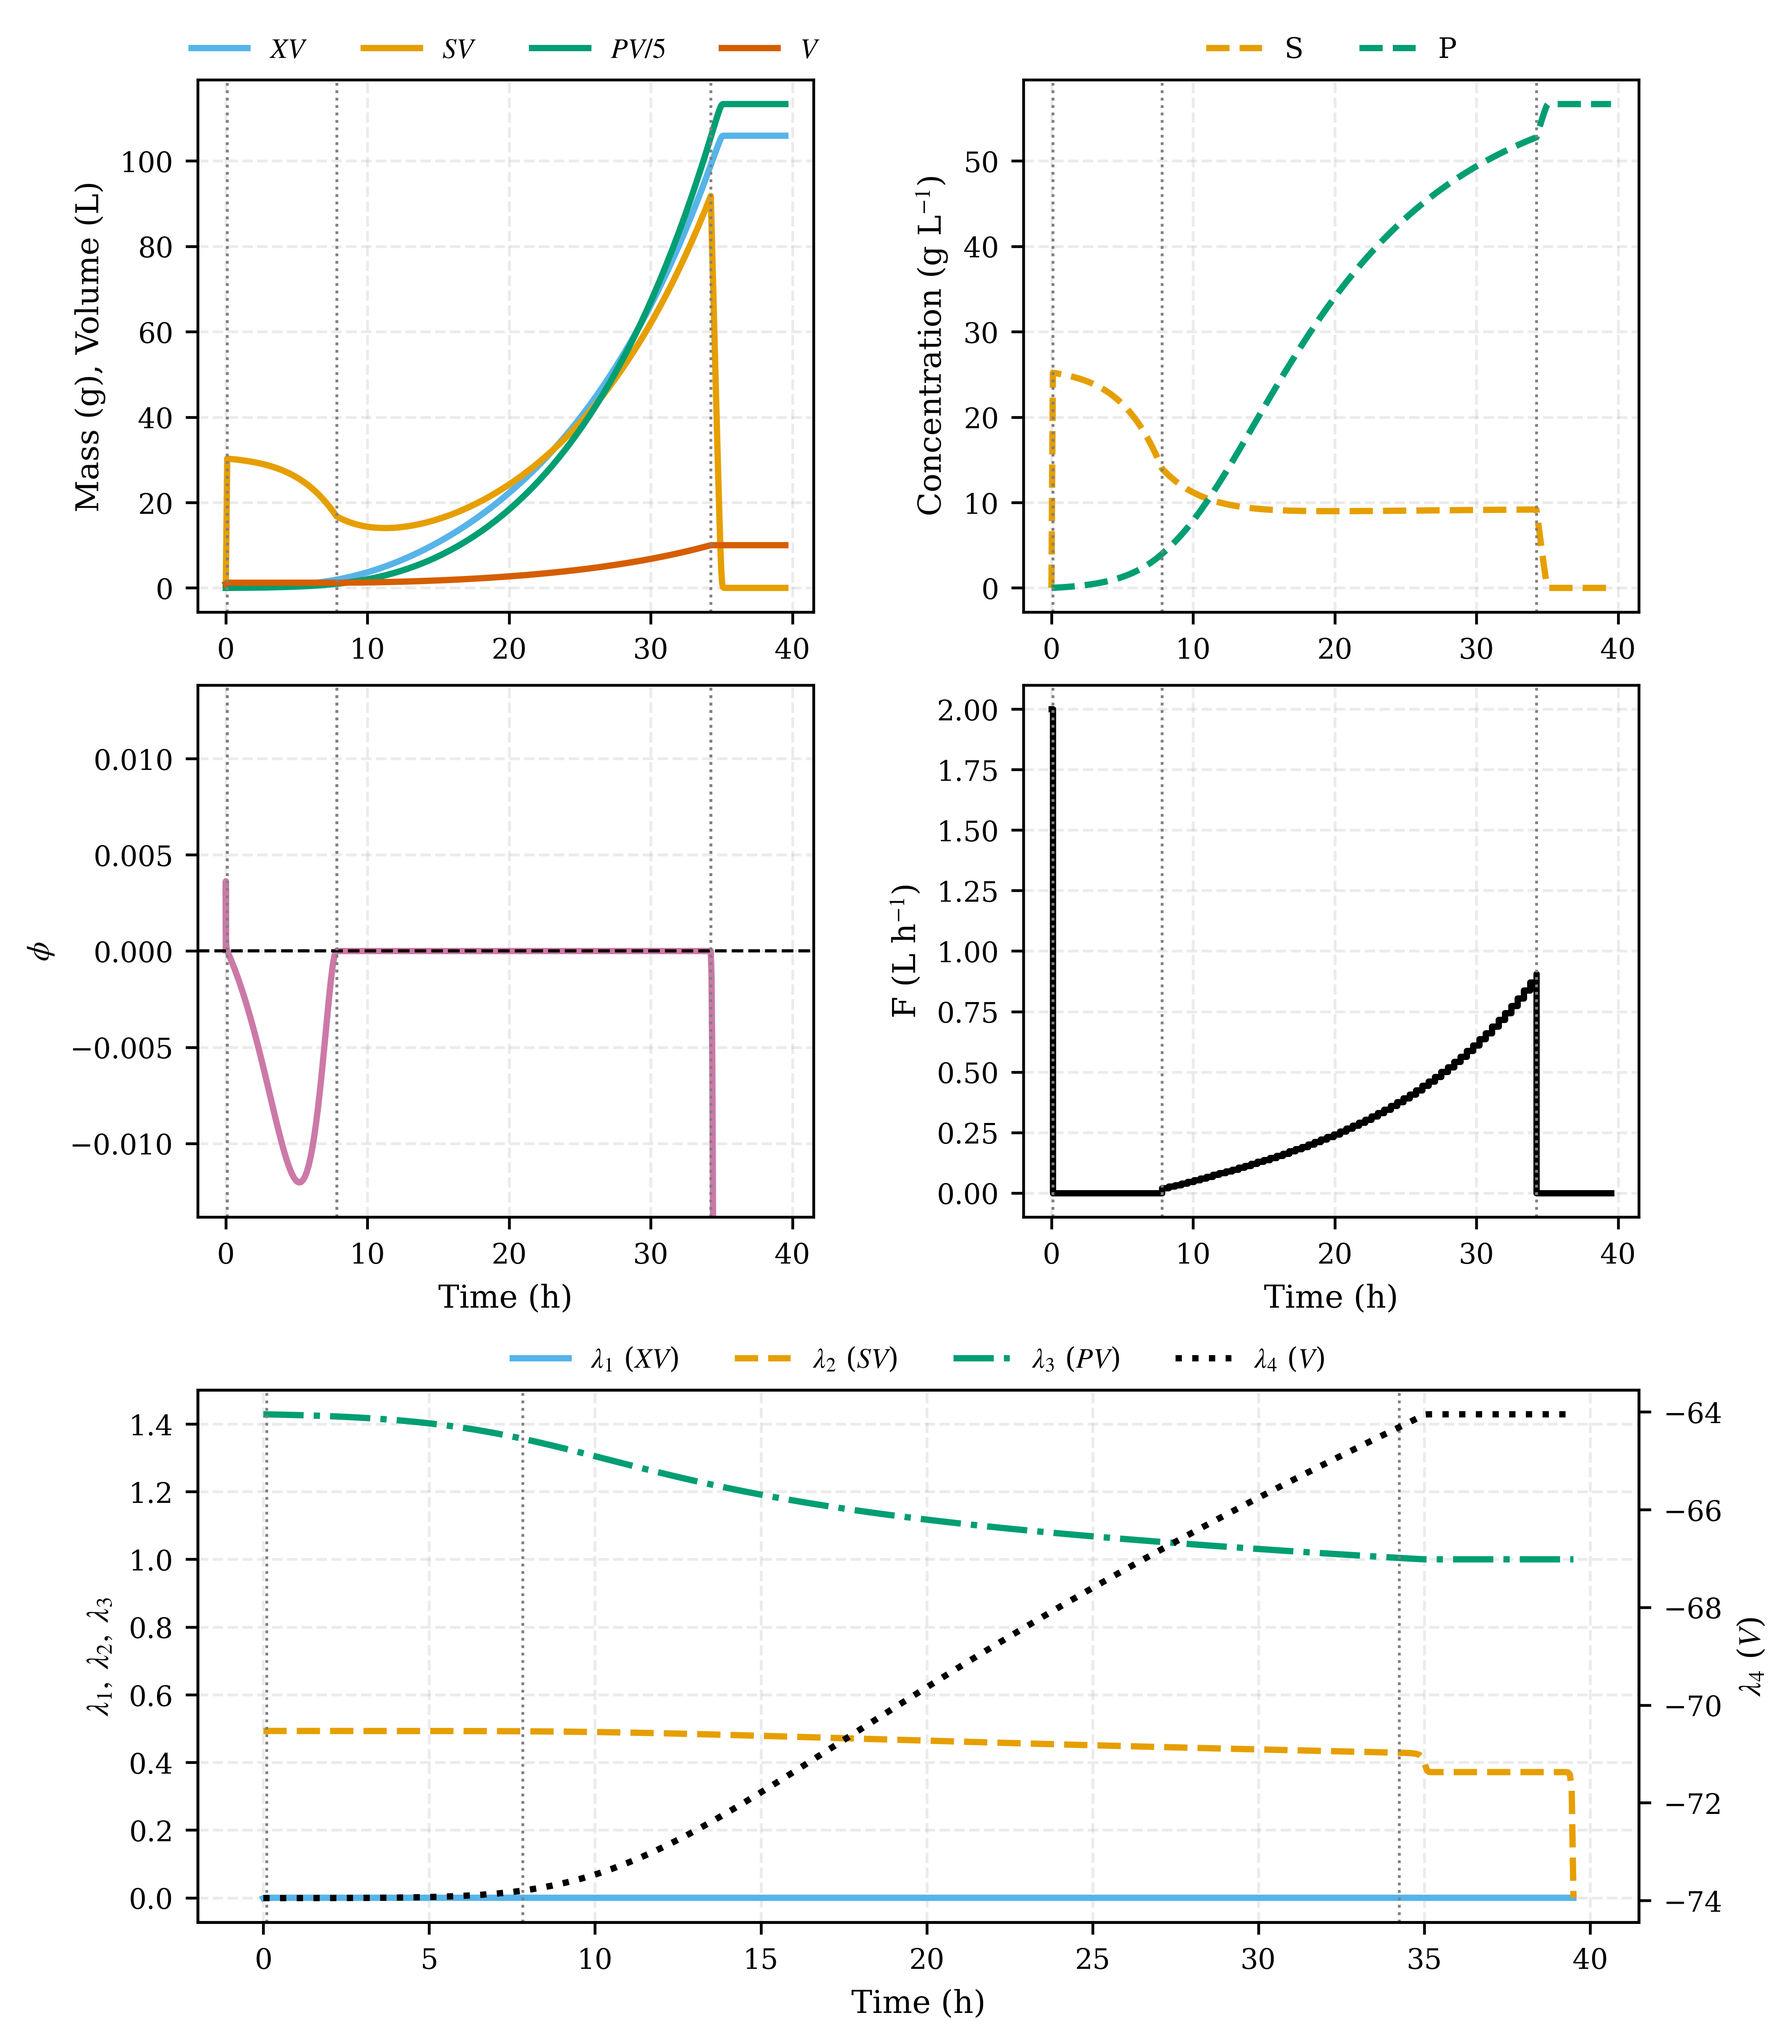
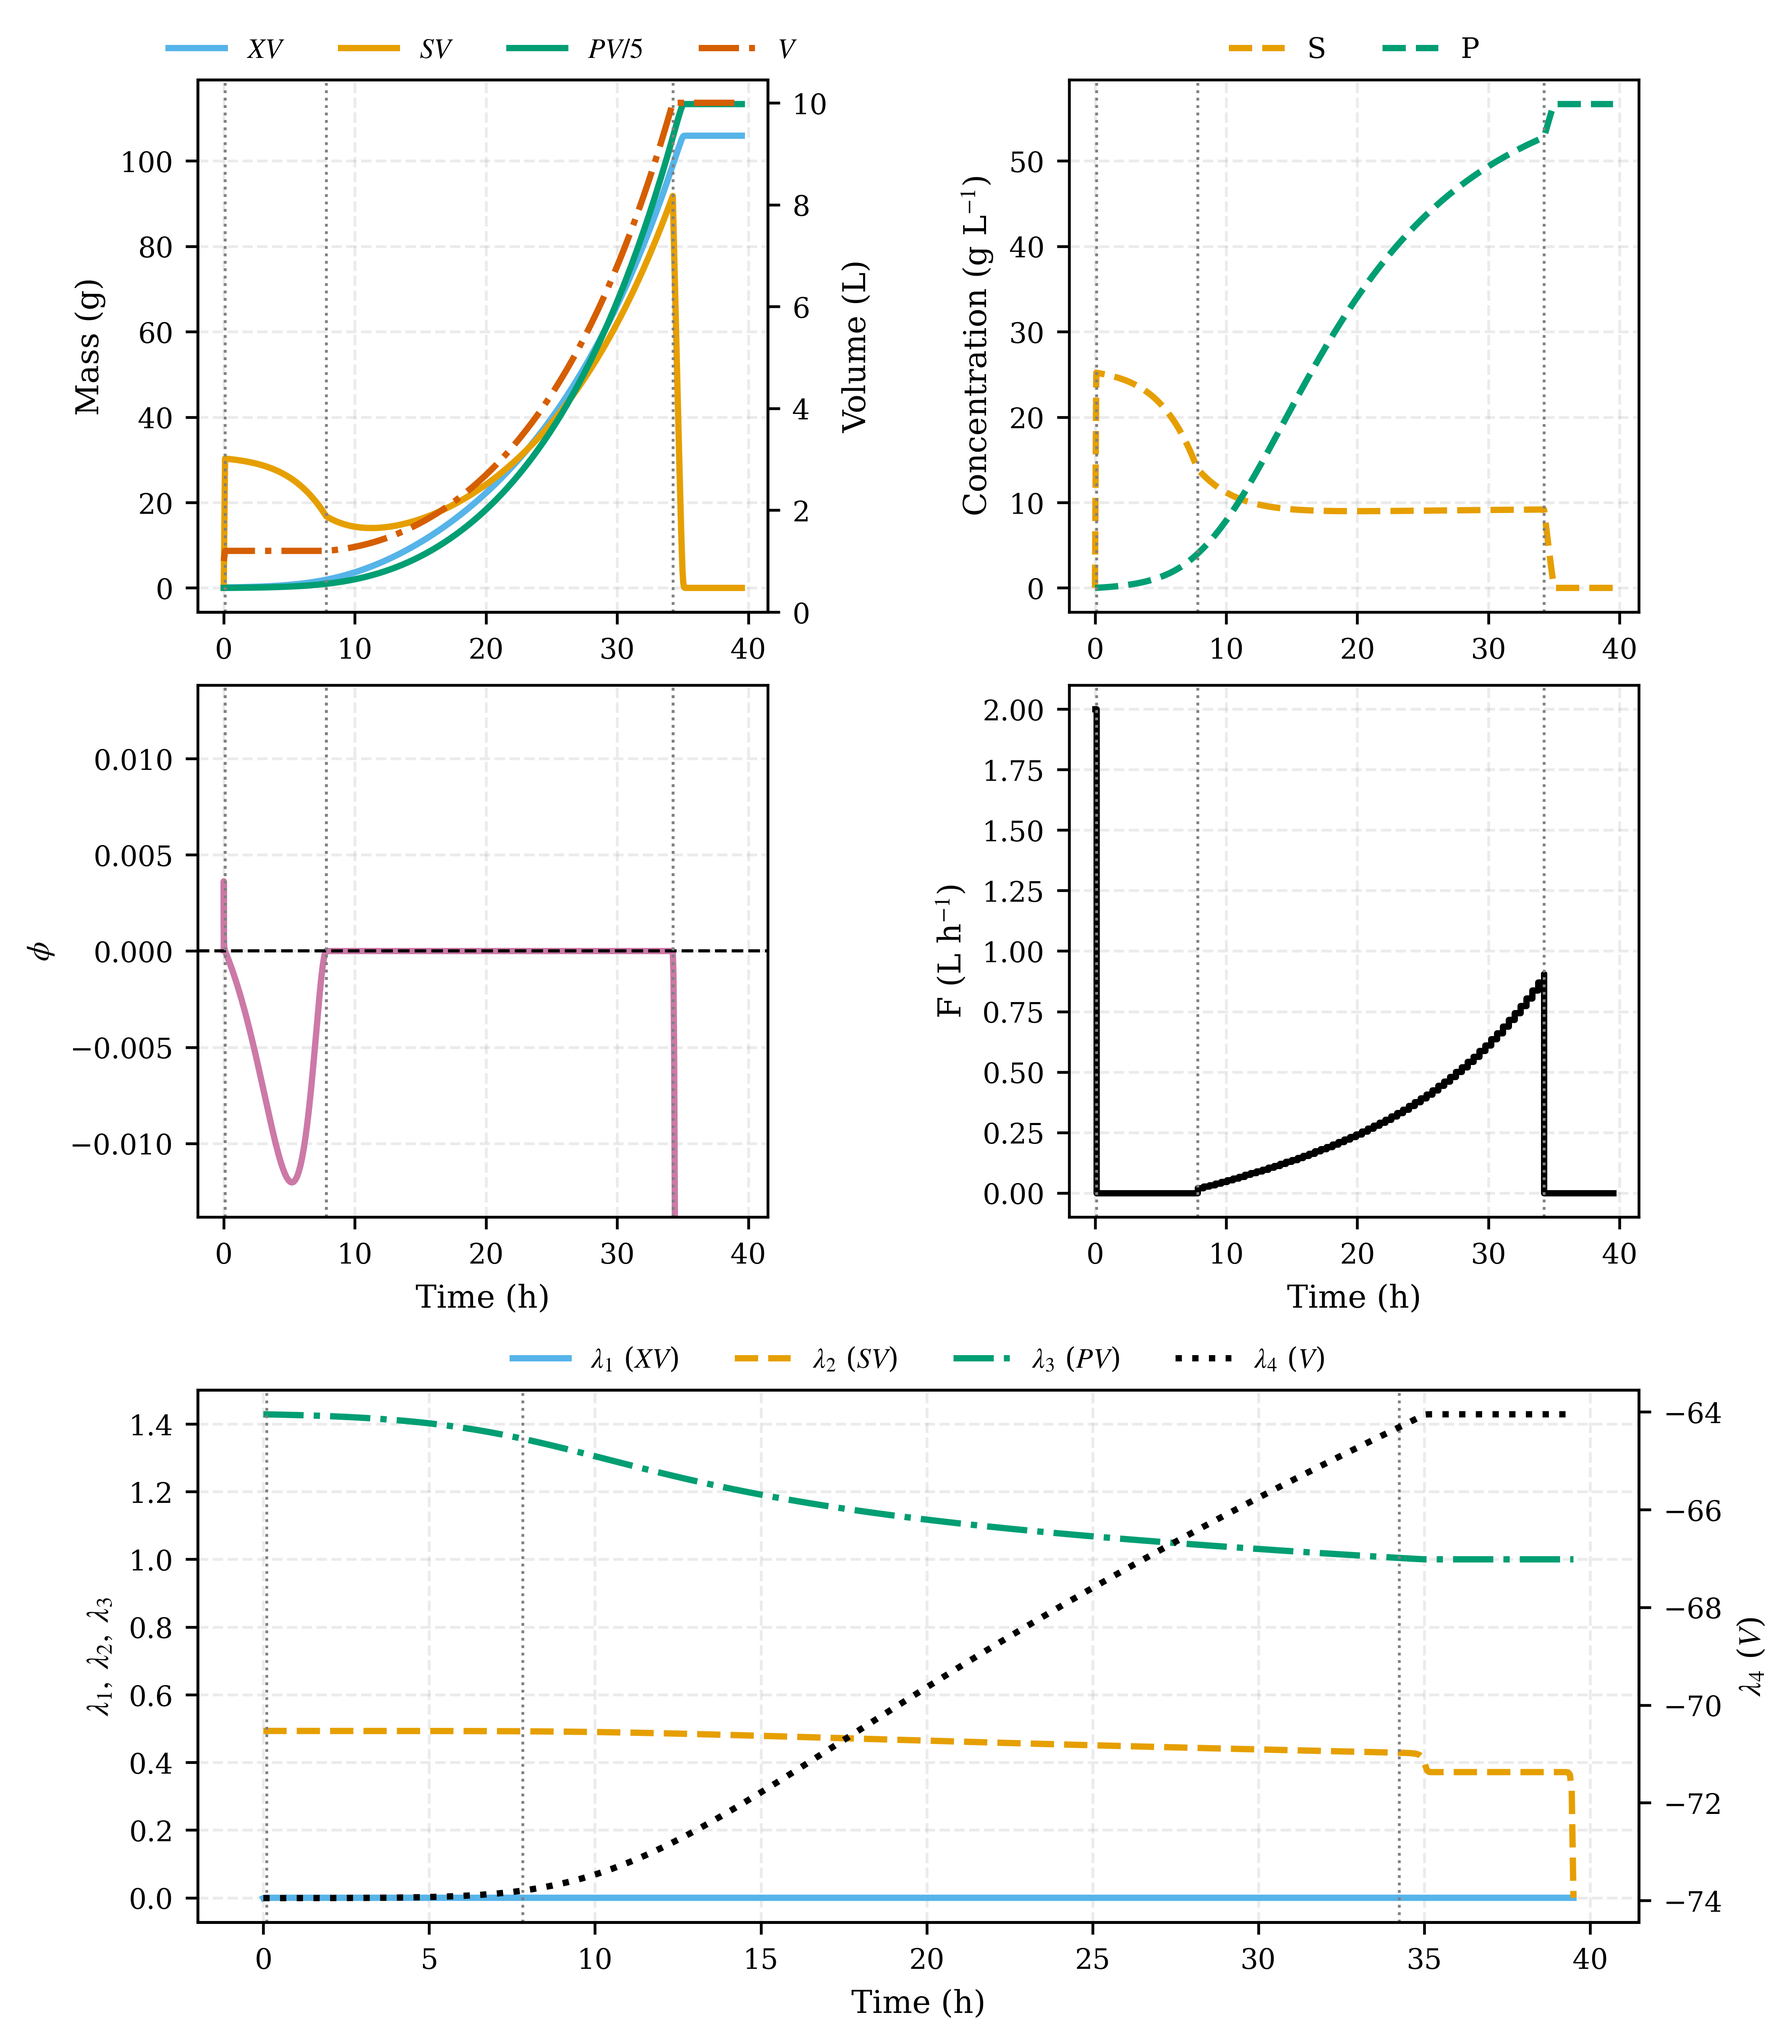
update y-axis of stage 2 plot

diff --git a/scripts/substrate_and_product_inhibition/hybrid_spi_balanced.py b/scripts/substrate_and_product_inhibition/hybrid_spi_balanced.py
@@ -266,9 +266,16 @@ if __name__ == "__main__":
     axd["state"].plot(T, Yf[:, 0], label=r"$XV$", color=oi["sky_blue"])
     axd["state"].plot(T, Yf[:, 1], label=r"$SV$",color=oi["orange"] )
     axd["state"].plot(T, Yf[:, 2] / 5, label=r"$PV / 5$", color=oi["bluish_green"])
-    axd["state"].plot(T, Yf[:, 3], label=r"$V$", color=oi["vermillion"])
-    axd["state"].set_ylabel("Mass (g), Volume (L)")
-    axd["state"].legend(ncol=4, loc="lower center", bbox_to_anchor=(0.5, 1.01),
+    axd["state"].set_ylabel("Mass (g)")
+    # volume on its own right-hand axis
+    axV2 = axd["state"].twinx()
+    axV2.plot(T, Yf[:, 3], label=r"$V$", color=oi["vermillion"], ls="-.")
+    axV2.set_ylabel("Volume (L)")
+    axV2.set_ylim(bottom=0)
+    axV2.grid(False)
+    h1, l1 = axd["state"].get_legend_handles_labels()
+    h2, l2 = axV2.get_legend_handles_labels()
+    axd["state"].legend(h1 + h2, l1 + l2, ncol=4, loc="lower center", bbox_to_anchor=(0.5, 1.01),
                         frameon=False, borderaxespad=0.0)
 
     axd["SP"].plot(T, S_all, label="S", color=oi["orange"], ls="--", lw=1.8)
